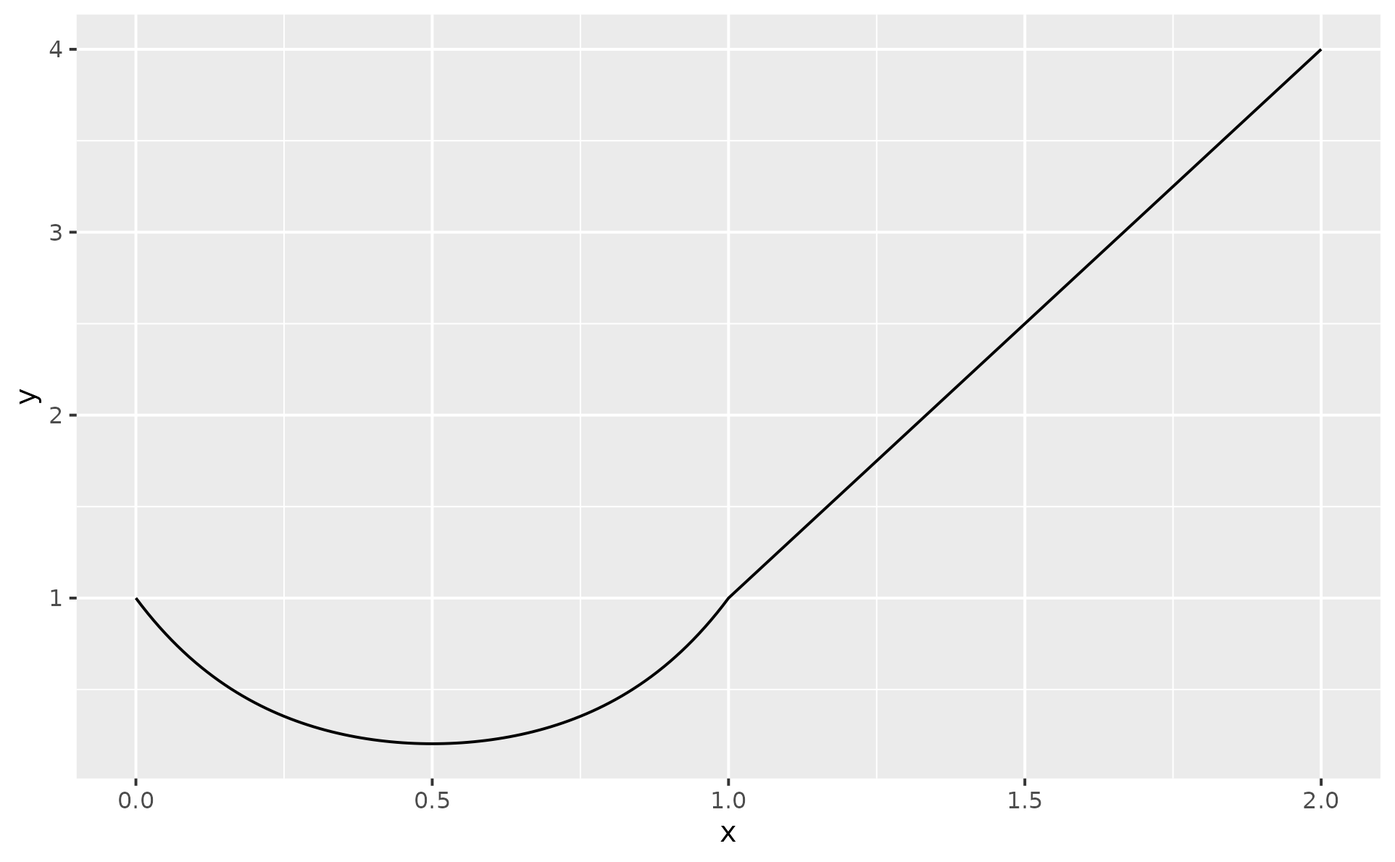
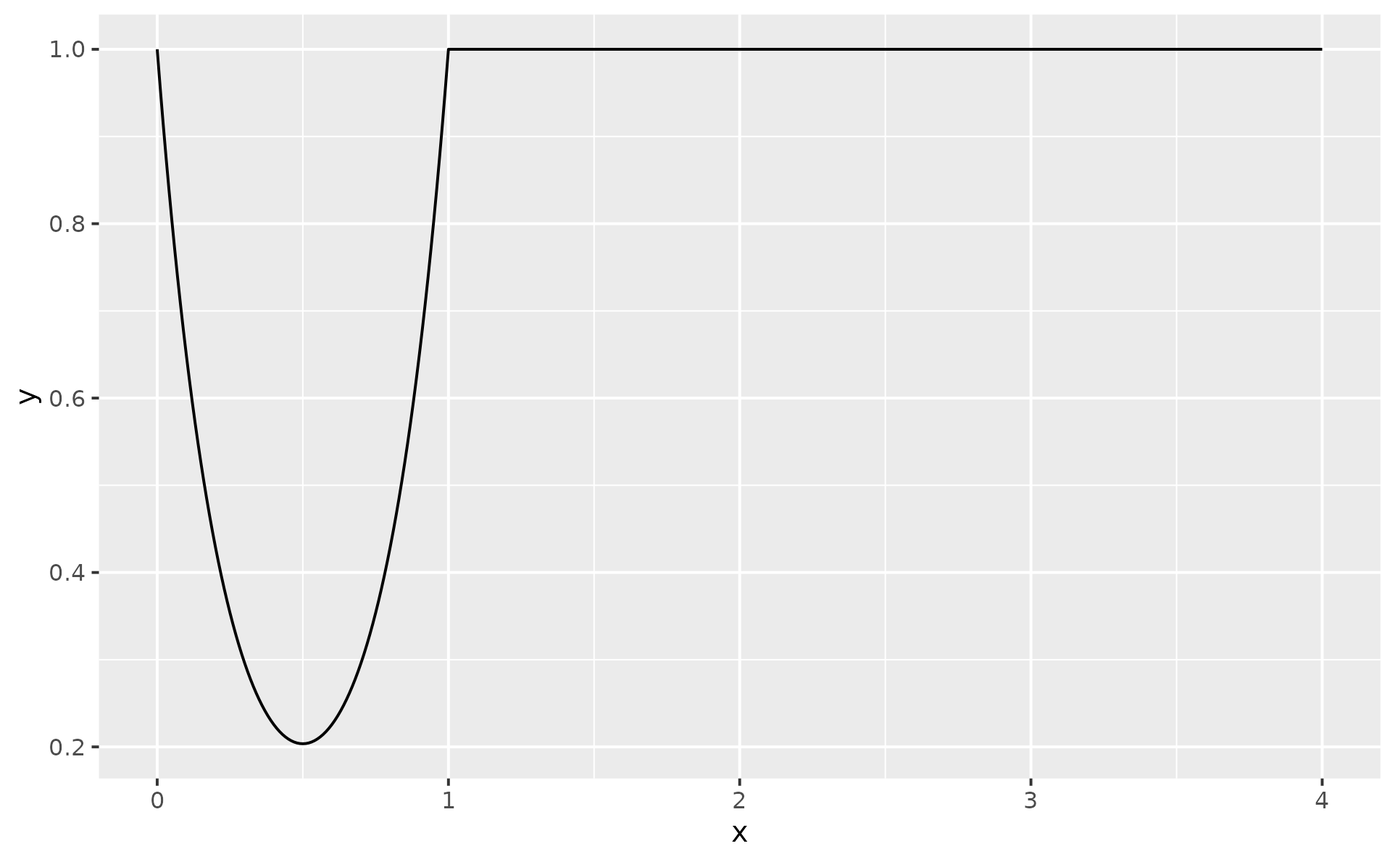
Deploying to gh-pages from @ flrd/ggpointless@ace3b11af0b070875aacb1e18dab3bf1f043c24d 🚀

diff --git a/dev/articles/ggpointless.html b/dev/articles/ggpointless.html
@@ -382,47 +382,35 @@ weight when supported only at its ends (see <a href="https://en.wikipedia.org/wi
 information).</p>
 <div class="sourceCode" id="cb16"><pre class="downlit sourceCode r">
 <code class="sourceCode R"><span><span class="fu"><a href="https://ggplot2.tidyverse.org/reference/ggplot.html" class="external-link">ggplot</a></span><span class="op">(</span><span class="fu"><a href="https://rdrr.io/r/base/data.frame.html" class="external-link">data.frame</a></span><span class="op">(</span>x <span class="op">=</span> <span class="fu"><a href="https://rdrr.io/r/base/c.html" class="external-link">c</a></span><span class="op">(</span><span class="fl">0</span>, <span class="fl">1</span><span class="op">)</span>, y <span class="op">=</span> <span class="fu"><a href="https://rdrr.io/r/base/c.html" class="external-link">c</a></span><span class="op">(</span><span class="fl">1</span>, <span class="fl">1</span><span class="op">)</span><span class="op">)</span>, <span class="fu"><a href="https://ggplot2.tidyverse.org/reference/aes.html" class="external-link">aes</a></span><span class="op">(</span><span class="va">x</span>, <span class="va">y</span><span class="op">)</span><span class="op">)</span> <span class="op">+</span></span>
-<span>  <span class="fu"><a href="../reference/geom_catenary.html">geom_catenary</a></span><span class="op">(</span><span class="op">)</span></span>
+<span>  <span class="fu"><a href="../reference/geom_catenary.html">geom_catenary</a></span><span class="op">(</span><span class="op">)</span> <span class="op">+</span></span>
+<span>  <span class="fu"><a href="https://ggplot2.tidyverse.org/reference/lims.html" class="external-link">ylim</a></span><span class="op">(</span><span class="fl">0</span>, <span class="fl">1</span><span class="op">)</span></span>
 <span><span class="co">#&gt; Set chainLength to 2</span></span></code></pre></div>
 <p><img src="ggpointless_files/figure-html/geom-catenary-intro-1.png" width="962.5"></p>
 <p><code><a href="../reference/geom_catenary.html">geom_catenary()</a></code> calculates a default value for the
-lnegth of the chain that is set to 2 times the Euclidean distance of all
-x/y coordinates. You can change this behaviour and the value of
-<code>chainLength</code> will be applied to each ‘chain link’:</p>
+length of the chain that is set to 2 times the Euclidean distance of all
+x/y coordinates. You can change this behaviour when you set
+<code>chainLength</code> argument.</p>
 <div class="sourceCode" id="cb17"><pre class="downlit sourceCode r">
-<code class="sourceCode R"><span><span class="fu"><a href="https://ggplot2.tidyverse.org/reference/ggplot.html" class="external-link">ggplot</a></span><span class="op">(</span><span class="fu"><a href="https://rdrr.io/r/base/data.frame.html" class="external-link">data.frame</a></span><span class="op">(</span>x <span class="op">=</span> <span class="fu"><a href="https://rdrr.io/r/base/c.html" class="external-link">c</a></span><span class="op">(</span><span class="fl">0</span>, <span class="fl">1</span>, <span class="fl">3</span><span class="op">)</span>, y <span class="op">=</span> <span class="fu"><a href="https://rdrr.io/r/base/c.html" class="external-link">c</a></span><span class="op">(</span><span class="fl">1</span>, <span class="fl">1</span>, <span class="fl">1</span><span class="op">)</span><span class="op">)</span>, <span class="fu"><a href="https://ggplot2.tidyverse.org/reference/aes.html" class="external-link">aes</a></span><span class="op">(</span><span class="va">x</span>, <span class="va">y</span><span class="op">)</span><span class="op">)</span> <span class="op">+</span></span>
-<span>  <span class="fu"><a href="../reference/geom_catenary.html">geom_catenary</a></span><span class="op">(</span>chainLength <span class="op">=</span> <span class="fl">2</span><span class="op">)</span></span>
-<span><span class="co">#&gt; Minimum chain length from '(1, 1)' to '(3, 1)' is 2, drawing a straight line.</span></span></code></pre></div>
+<code class="sourceCode R"><span><span class="fu"><a href="https://ggplot2.tidyverse.org/reference/ggplot.html" class="external-link">ggplot</a></span><span class="op">(</span><span class="fu"><a href="https://rdrr.io/r/base/data.frame.html" class="external-link">data.frame</a></span><span class="op">(</span>x <span class="op">=</span> <span class="fu"><a href="https://rdrr.io/r/base/c.html" class="external-link">c</a></span><span class="op">(</span><span class="fl">0</span>, <span class="fl">1</span><span class="op">)</span>, y <span class="op">=</span> <span class="fu"><a href="https://rdrr.io/r/base/c.html" class="external-link">c</a></span><span class="op">(</span><span class="fl">1</span>, <span class="fl">1</span><span class="op">)</span><span class="op">)</span>, <span class="fu"><a href="https://ggplot2.tidyverse.org/reference/aes.html" class="external-link">aes</a></span><span class="op">(</span><span class="va">x</span>, <span class="va">y</span><span class="op">)</span><span class="op">)</span> <span class="op">+</span></span>
+<span>  <span class="fu"><a href="../reference/geom_catenary.html">geom_catenary</a></span><span class="op">(</span>chainLength <span class="op">=</span> <span class="fl">1.5</span><span class="op">)</span>  <span class="op">+</span></span>
+<span>  <span class="fu"><a href="https://ggplot2.tidyverse.org/reference/lims.html" class="external-link">ylim</a></span><span class="op">(</span><span class="fl">0</span>, <span class="fl">1</span><span class="op">)</span></span></code></pre></div>
 <p><img src="ggpointless_files/figure-html/geom-catenary-chainLength-1.png" width="962.5"></p>
-<p>If you pick a value that is too short to connect to points, a
+<p>If you pick a value that is too short to connect two points, a
 straight line is drawn and a message is shown.</p>
 <div class="sourceCode" id="cb18"><pre class="downlit sourceCode r">
-<code class="sourceCode R"><span><span class="fu"><a href="https://ggplot2.tidyverse.org/reference/ggplot.html" class="external-link">ggplot</a></span><span class="op">(</span><span class="fu"><a href="https://rdrr.io/r/base/data.frame.html" class="external-link">data.frame</a></span><span class="op">(</span>x <span class="op">=</span> <span class="fu"><a href="https://rdrr.io/r/base/c.html" class="external-link">c</a></span><span class="op">(</span><span class="fl">0</span>, <span class="fl">1</span>, <span class="fl">2</span><span class="op">)</span>, y <span class="op">=</span> <span class="fu"><a href="https://rdrr.io/r/base/c.html" class="external-link">c</a></span><span class="op">(</span><span class="fl">1</span>, <span class="fl">1</span>, <span class="fl">4</span><span class="op">)</span><span class="op">)</span>, <span class="fu"><a href="https://ggplot2.tidyverse.org/reference/aes.html" class="external-link">aes</a></span><span class="op">(</span><span class="va">x</span>, <span class="va">y</span><span class="op">)</span><span class="op">)</span> <span class="op">+</span></span>
-<span>  <span class="fu"><a href="../reference/geom_catenary.html">geom_catenary</a></span><span class="op">(</span>chainLength <span class="op">=</span> <span class="fl">2</span><span class="op">)</span></span>
-<span><span class="co">#&gt; Minimum chain length from '(1, 1)' to '(2, 4)' is 3.16, drawing a straight line.</span></span></code></pre></div>
+<code class="sourceCode R"><span><span class="fu"><a href="https://ggplot2.tidyverse.org/reference/ggplot.html" class="external-link">ggplot</a></span><span class="op">(</span><span class="fu"><a href="https://rdrr.io/r/base/data.frame.html" class="external-link">data.frame</a></span><span class="op">(</span>x <span class="op">=</span> <span class="fu"><a href="https://rdrr.io/r/base/c.html" class="external-link">c</a></span><span class="op">(</span><span class="fl">0</span>, <span class="fl">1</span>, <span class="fl">4</span><span class="op">)</span>, y <span class="op">=</span> <span class="fu"><a href="https://rdrr.io/r/base/c.html" class="external-link">c</a></span><span class="op">(</span><span class="fl">1</span>, <span class="fl">1</span>, <span class="fl">1</span><span class="op">)</span><span class="op">)</span>, <span class="fu"><a href="https://ggplot2.tidyverse.org/reference/aes.html" class="external-link">aes</a></span><span class="op">(</span><span class="va">x</span>, <span class="va">y</span><span class="op">)</span><span class="op">)</span> <span class="op">+</span></span>
+<span>  <span class="fu"><a href="../reference/geom_catenary.html">geom_catenary</a></span><span class="op">(</span>chainLength <span class="op">=</span> <span class="fl">4</span><span class="op">)</span></span>
+<span><span class="co">#&gt; Minimum chain length from '(1, 1)' to '(4, 1)' is 3, drawing a straight line.</span></span></code></pre></div>
 <p><img src="ggpointless_files/figure-html/geom-catenary-chainLength-minimum-1.png" width="962.5"></p>
-<p>If you want to draw a chain where each piece has a different value
-(or another attribute) for <code>chainLength</code> you can add a list
-to an ggplot object:</p>
+<p>If you want to draw a chain where each piece has a different
+<code>chainLength</code> value, remember you can add a list to a ggplot
+object:</p>
 <div class="sourceCode" id="cb19"><pre class="downlit sourceCode r">
-<code class="sourceCode R"><span><span class="va">lst</span> <span class="op">&lt;-</span> <span class="fu"><a href="https://rdrr.io/r/base/list.html" class="external-link">list</a></span><span class="op">(</span></span>
-<span>  x <span class="op">=</span> <span class="fu"><a href="https://rdrr.io/r/base/c.html" class="external-link">c</a></span><span class="op">(</span><span class="fl">0</span>, <span class="fl">1</span>, <span class="fl">2</span>, <span class="fl">3</span><span class="op">)</span>,</span>
-<span>  y <span class="op">=</span> <span class="fu"><a href="https://rdrr.io/r/base/c.html" class="external-link">c</a></span><span class="op">(</span><span class="fl">0</span>, <span class="fl">1</span>, <span class="fl">2</span>, <span class="fl">3</span><span class="op">)</span>,</span>
-<span>  chainLength <span class="op">=</span> <span class="fl">1</span> <span class="op">+</span> <span class="fl">2</span> <span class="op">*</span> <span class="fl">1</span><span class="op">:</span><span class="fl">4</span>,</span>
-<span>  colour <span class="op">=</span> <span class="va">cols</span></span>
-<span><span class="op">)</span></span>
-<span></span>
-<span><span class="fu"><a href="https://ggplot2.tidyverse.org/reference/ggplot.html" class="external-link">ggplot</a></span><span class="op">(</span><span class="op">)</span> <span class="op">+</span> <span class="fu"><a href="https://rdrr.io/r/base/funprog.html" class="external-link">Map</a></span><span class="op">(</span></span>
-<span>  <span class="kw">function</span><span class="op">(</span><span class="va">x</span>, <span class="va">y</span>, <span class="va">chainLength</span>, <span class="va">colour</span><span class="op">)</span> <span class="op">{</span></span>
-<span>    <span class="fu"><a href="../reference/geom_catenary.html">geom_catenary</a></span><span class="op">(</span><span class="fu"><a href="https://ggplot2.tidyverse.org/reference/aes.html" class="external-link">aes</a></span><span class="op">(</span><span class="va">x</span>, <span class="va">y</span><span class="op">)</span>,</span>
-<span>                  <span class="fu"><a href="https://rdrr.io/r/base/data.frame.html" class="external-link">data.frame</a></span><span class="op">(</span>x <span class="op">=</span> <span class="va">x</span> <span class="op">+</span> <span class="fl">0</span><span class="op">:</span><span class="fl">1</span>, y <span class="op">=</span> <span class="va">y</span> <span class="op">+</span> <span class="fl">0</span><span class="op">:</span><span class="fl">1</span><span class="op">)</span>,</span>
-<span>                  chainLength <span class="op">=</span> <span class="va">chainLength</span>,</span>
-<span>                  col <span class="op">=</span> <span class="va">colour</span><span class="op">)</span></span>
-<span>  <span class="op">}</span>,</span>
-<span>  x <span class="op">=</span> <span class="va">lst</span><span class="op">[[</span><span class="st">"x"</span><span class="op">]</span><span class="op">]</span>,</span>
-<span>  y <span class="op">=</span> <span class="va">lst</span><span class="op">[[</span><span class="st">"y"</span><span class="op">]</span><span class="op">]</span>,</span>
-<span>  chainLength <span class="op">=</span> <span class="va">lst</span><span class="op">[[</span><span class="st">"chainLength"</span><span class="op">]</span><span class="op">]</span>,</span>
-<span>  colour <span class="op">=</span> <span class="va">lst</span><span class="op">[[</span><span class="st">"colour"</span><span class="op">]</span><span class="op">]</span></span>
+<code class="sourceCode R"><span><span class="fu"><a href="https://ggplot2.tidyverse.org/reference/ggplot.html" class="external-link">ggplot</a></span><span class="op">(</span><span class="fu"><a href="https://rdrr.io/r/base/data.frame.html" class="external-link">data.frame</a></span><span class="op">(</span>x <span class="op">=</span> <span class="fu"><a href="https://rdrr.io/r/base/c.html" class="external-link">c</a></span><span class="op">(</span><span class="fl">0</span>, <span class="fl">1</span><span class="op">)</span>, y <span class="op">=</span> <span class="fl">1</span><span class="op">)</span>,</span>
+<span>       <span class="fu"><a href="https://ggplot2.tidyverse.org/reference/aes.html" class="external-link">aes</a></span><span class="op">(</span><span class="va">x</span>, <span class="va">y</span><span class="op">)</span><span class="op">)</span> <span class="op">+</span> </span>
+<span>  <span class="fu"><a href="https://rdrr.io/r/base/lapply.html" class="external-link">lapply</a></span><span class="op">(</span><span class="fl">2</span><span class="op">:</span><span class="fl">10</span>, <span class="kw">function</span><span class="op">(</span><span class="va">chainLength</span><span class="op">)</span> <span class="op">{</span></span>
+<span>    <span class="fu"><a href="../reference/geom_catenary.html">geom_catenary</a></span><span class="op">(</span>chainLength <span class="op">=</span> <span class="va">chainLength</span><span class="op">)</span></span>
+<span>  <span class="op">}</span></span>
 <span><span class="op">)</span></span></code></pre></div>
 <p><img src="ggpointless_files/figure-html/geom-catenary-chainLength-individual-1.png" width="962.5"></p>
 </div>

diff --git a/dev/reference/geom_catenary.html b/dev/reference/geom_catenary.html
@@ -1,7 +1,7 @@
 <!DOCTYPE html>
 <!-- Generated by pkgdown: do not edit by hand --><html lang="en"><head><meta http-equiv="Content-Type" content="text/html; charset=UTF-8"><meta charset="utf-8"><meta http-equiv="X-UA-Compatible" content="IE=edge"><meta name="viewport" content="width=device-width, initial-scale=1, shrink-to-fit=no"><meta name="description" content="geom_catenary() draws a catenary curve which has a U-like shape,
-superficially similar in appearance to a parabola, which it is not."><title>Draw a catenary curve between fixed points — geom_catenary • ggpointless</title><!-- favicons --><link rel="icon" type="image/png" sizes="16x16" href="../favicon-16x16.png"><link rel="icon" type="image/png" sizes="32x32" href="../favicon-32x32.png"><link rel="apple-touch-icon" type="image/png" sizes="180x180" href="../apple-touch-icon.png"><link rel="apple-touch-icon" type="image/png" sizes="120x120" href="../apple-touch-icon-120x120.png"><link rel="apple-touch-icon" type="image/png" sizes="76x76" href="../apple-touch-icon-76x76.png"><link rel="apple-touch-icon" type="image/png" sizes="60x60" href="../apple-touch-icon-60x60.png"><script src="../deps/jquery-3.6.0/jquery-3.6.0.min.js"></script><meta name="viewport" content="width=device-width, initial-scale=1, shrink-to-fit=no"><link href="../deps/bootstrap-5.3.1/bootstrap.min.css" rel="stylesheet"><script src="../deps/bootstrap-5.3.1/bootstrap.bundle.min.js"></script><link href="../deps/Fira_Code-0.4.8/font.css" rel="stylesheet"><!-- Font Awesome icons --><link rel="stylesheet" href="https://cdnjs.cloudflare.com/ajax/libs/font-awesome/5.12.1/css/all.min.css" integrity="sha256-mmgLkCYLUQbXn0B1SRqzHar6dCnv9oZFPEC1g1cwlkk=" crossorigin="anonymous"><link rel="stylesheet" href="https://cdnjs.cloudflare.com/ajax/libs/font-awesome/5.12.1/css/v4-shims.min.css" integrity="sha256-wZjR52fzng1pJHwx4aV2AO3yyTOXrcDW7jBpJtTwVxw=" crossorigin="anonymous"><!-- bootstrap-toc --><script src="https://cdn.jsdelivr.net/gh/afeld/bootstrap-toc@v1.0.1/dist/bootstrap-toc.min.js" integrity="sha256-4veVQbu7//Lk5TSmc7YV48MxtMy98e26cf5MrgZYnwo=" crossorigin="anonymous"></script><!-- headroom.js --><script src="https://cdnjs.cloudflare.com/ajax/libs/headroom/0.11.0/headroom.min.js" integrity="sha256-AsUX4SJE1+yuDu5+mAVzJbuYNPHj/WroHuZ8Ir/CkE0=" crossorigin="anonymous"></script><script src="https://cdnjs.cloudflare.com/ajax/libs/headroom/0.11.0/jQuery.headroom.min.js" integrity="sha256-ZX/yNShbjqsohH1k95liqY9Gd8uOiE1S4vZc+9KQ1K4=" crossorigin="anonymous"></script><!-- clipboard.js --><script src="https://cdnjs.cloudflare.com/ajax/libs/clipboard.js/2.0.6/clipboard.min.js" integrity="sha256-inc5kl9MA1hkeYUt+EC3BhlIgyp/2jDIyBLS6k3UxPI=" crossorigin="anonymous"></script><!-- search --><script src="https://cdnjs.cloudflare.com/ajax/libs/fuse.js/6.4.6/fuse.js" integrity="sha512-zv6Ywkjyktsohkbp9bb45V6tEMoWhzFzXis+LrMehmJZZSys19Yxf1dopHx7WzIKxr5tK2dVcYmaCk2uqdjF4A==" crossorigin="anonymous"></script><script src="https://cdnjs.cloudflare.com/ajax/libs/autocomplete.js/0.38.0/autocomplete.jquery.min.js" integrity="sha512-GU9ayf+66Xx2TmpxqJpliWbT5PiGYxpaG8rfnBEk1LL8l1KGkRShhngwdXK1UgqhAzWpZHSiYPc09/NwDQIGyg==" crossorigin="anonymous"></script><script src="https://cdnjs.cloudflare.com/ajax/libs/mark.js/8.11.1/mark.min.js" integrity="sha512-5CYOlHXGh6QpOFA/TeTylKLWfB3ftPsde7AnmhuitiTX4K5SqCLBeKro6sPS8ilsz1Q4NRx3v8Ko2IBiszzdww==" crossorigin="anonymous"></script><!-- pkgdown --><script src="../pkgdown.js"></script><meta property="og:title" content="Draw a catenary curve between fixed points — geom_catenary"><meta property="og:description" content="geom_catenary() draws a catenary curve which has a U-like shape,
-superficially similar in appearance to a parabola, which it is not."><meta property="og:image" content="https://flrd.github.io/ggpointless/logo.png"><meta name="robots" content="noindex"><!-- mathjax --><script src="https://cdnjs.cloudflare.com/ajax/libs/mathjax/2.7.5/MathJax.js" integrity="sha256-nvJJv9wWKEm88qvoQl9ekL2J+k/RWIsaSScxxlsrv8k=" crossorigin="anonymous"></script><script src="https://cdnjs.cloudflare.com/ajax/libs/mathjax/2.7.5/config/TeX-AMS-MML_HTMLorMML.js" integrity="sha256-84DKXVJXs0/F8OTMzX4UR909+jtl4G7SPypPavF+GfA=" crossorigin="anonymous"></script><!--[if lt IE 9]>
+similar in appearance to a parabola, which it is not."><title>Draw a catenary curve — geom_catenary • ggpointless</title><!-- favicons --><link rel="icon" type="image/png" sizes="16x16" href="../favicon-16x16.png"><link rel="icon" type="image/png" sizes="32x32" href="../favicon-32x32.png"><link rel="apple-touch-icon" type="image/png" sizes="180x180" href="../apple-touch-icon.png"><link rel="apple-touch-icon" type="image/png" sizes="120x120" href="../apple-touch-icon-120x120.png"><link rel="apple-touch-icon" type="image/png" sizes="76x76" href="../apple-touch-icon-76x76.png"><link rel="apple-touch-icon" type="image/png" sizes="60x60" href="../apple-touch-icon-60x60.png"><script src="../deps/jquery-3.6.0/jquery-3.6.0.min.js"></script><meta name="viewport" content="width=device-width, initial-scale=1, shrink-to-fit=no"><link href="../deps/bootstrap-5.3.1/bootstrap.min.css" rel="stylesheet"><script src="../deps/bootstrap-5.3.1/bootstrap.bundle.min.js"></script><link href="../deps/Fira_Code-0.4.8/font.css" rel="stylesheet"><!-- Font Awesome icons --><link rel="stylesheet" href="https://cdnjs.cloudflare.com/ajax/libs/font-awesome/5.12.1/css/all.min.css" integrity="sha256-mmgLkCYLUQbXn0B1SRqzHar6dCnv9oZFPEC1g1cwlkk=" crossorigin="anonymous"><link rel="stylesheet" href="https://cdnjs.cloudflare.com/ajax/libs/font-awesome/5.12.1/css/v4-shims.min.css" integrity="sha256-wZjR52fzng1pJHwx4aV2AO3yyTOXrcDW7jBpJtTwVxw=" crossorigin="anonymous"><!-- bootstrap-toc --><script src="https://cdn.jsdelivr.net/gh/afeld/bootstrap-toc@v1.0.1/dist/bootstrap-toc.min.js" integrity="sha256-4veVQbu7//Lk5TSmc7YV48MxtMy98e26cf5MrgZYnwo=" crossorigin="anonymous"></script><!-- headroom.js --><script src="https://cdnjs.cloudflare.com/ajax/libs/headroom/0.11.0/headroom.min.js" integrity="sha256-AsUX4SJE1+yuDu5+mAVzJbuYNPHj/WroHuZ8Ir/CkE0=" crossorigin="anonymous"></script><script src="https://cdnjs.cloudflare.com/ajax/libs/headroom/0.11.0/jQuery.headroom.min.js" integrity="sha256-ZX/yNShbjqsohH1k95liqY9Gd8uOiE1S4vZc+9KQ1K4=" crossorigin="anonymous"></script><!-- clipboard.js --><script src="https://cdnjs.cloudflare.com/ajax/libs/clipboard.js/2.0.6/clipboard.min.js" integrity="sha256-inc5kl9MA1hkeYUt+EC3BhlIgyp/2jDIyBLS6k3UxPI=" crossorigin="anonymous"></script><!-- search --><script src="https://cdnjs.cloudflare.com/ajax/libs/fuse.js/6.4.6/fuse.js" integrity="sha512-zv6Ywkjyktsohkbp9bb45V6tEMoWhzFzXis+LrMehmJZZSys19Yxf1dopHx7WzIKxr5tK2dVcYmaCk2uqdjF4A==" crossorigin="anonymous"></script><script src="https://cdnjs.cloudflare.com/ajax/libs/autocomplete.js/0.38.0/autocomplete.jquery.min.js" integrity="sha512-GU9ayf+66Xx2TmpxqJpliWbT5PiGYxpaG8rfnBEk1LL8l1KGkRShhngwdXK1UgqhAzWpZHSiYPc09/NwDQIGyg==" crossorigin="anonymous"></script><script src="https://cdnjs.cloudflare.com/ajax/libs/mark.js/8.11.1/mark.min.js" integrity="sha512-5CYOlHXGh6QpOFA/TeTylKLWfB3ftPsde7AnmhuitiTX4K5SqCLBeKro6sPS8ilsz1Q4NRx3v8Ko2IBiszzdww==" crossorigin="anonymous"></script><!-- pkgdown --><script src="../pkgdown.js"></script><meta property="og:title" content="Draw a catenary curve — geom_catenary"><meta property="og:description" content="geom_catenary() draws a catenary curve which has a U-like shape,
+similar in appearance to a parabola, which it is not."><meta property="og:image" content="https://flrd.github.io/ggpointless/logo.png"><meta name="robots" content="noindex"><!-- mathjax --><script src="https://cdnjs.cloudflare.com/ajax/libs/mathjax/2.7.5/MathJax.js" integrity="sha256-nvJJv9wWKEm88qvoQl9ekL2J+k/RWIsaSScxxlsrv8k=" crossorigin="anonymous"></script><script src="https://cdnjs.cloudflare.com/ajax/libs/mathjax/2.7.5/config/TeX-AMS-MML_HTMLorMML.js" integrity="sha256-84DKXVJXs0/F8OTMzX4UR909+jtl4G7SPypPavF+GfA=" crossorigin="anonymous"></script><!--[if lt IE 9]>
 <script src="https://oss.maxcdn.com/html5shiv/3.7.3/html5shiv.min.js"></script>
 <script src="https://oss.maxcdn.com/respond/1.4.2/respond.min.js"></script>
 <![endif]--></head><body>
@@ -51,14 +51,14 @@ superficially similar in appearance to a parabola, which it is not."><meta prope
 </nav><div class="container template-reference-topic">
 <div class="row">
   <main id="main" class="col-md-9"><div class="page-header">
-      <img src="../logo.png" class="logo" alt=""><h1>Draw a catenary curve between fixed points</h1>
-      <small class="dont-index">Source: <a href="https://github.com/flrd/ggpointless/blob/HEAD/R/geom-catenary.R" class="external-link"><code>R/geom-catenary.R</code></a></small>
+      <img src="../logo.png" class="logo" alt=""><h1>Draw a catenary curve</h1>
+      <small class="dont-index">Source: <a href="https://github.com/flrd/ggpointless/blob/HEAD/R/geom-catenary.R" class="external-link"><code>R/geom-catenary.R</code></a>, <a href="https://github.com/flrd/ggpointless/blob/HEAD/R/stat-catenary.R" class="external-link"><code>R/stat-catenary.R</code></a></small>
       <div class="d-none name"><code>geom_catenary.Rd</code></div>
     </div>
 
     <div class="ref-description section level2">
     <p><code>geom_catenary()</code> draws a catenary curve which has a U-like shape,
-superficially similar in appearance to a parabola, which it is not.</p>
+similar in appearance to a parabola, which it is not.</p>
     </div>
 
     <div class="section level2">
@@ -185,13 +185,17 @@ aesthetics are in bold):</p><ul><li><p><strong>x</strong></p></li>
 <span class="r-in"><span><span class="va">p</span> <span class="op">+</span> <span class="fu">geom_catenary</span><span class="op">(</span><span class="op">)</span></span></span>
 <span class="r-msg co"><span class="r-pr">#&gt;</span> Set chainLength to 4.24</span>
 <span class="r-plt img"><img src="geom_catenary-1.png" alt="" width="962" height="595"></span>
-<span class="r-in"><span><span class="va">p</span> <span class="op">+</span> <span class="fu">geom_catenary</span><span class="op">(</span>chainLength <span class="op">=</span> <span class="fl">1.5</span><span class="op">)</span></span></span>
+<span class="r-in"><span></span></span>
+<span class="r-in"><span><span class="co"># use chainLength argument to change default behaviour</span></span></span>
+<span class="r-in"><span><span class="va">p</span> <span class="op">+</span> <span class="fu">geom_catenary</span><span class="op">(</span>chainLength <span class="op">=</span> <span class="fl">5</span><span class="op">)</span> <span class="op">+</span></span></span>
+<span class="r-in"><span>  <span class="fu"><a href="https://ggplot2.tidyverse.org/reference/lims.html" class="external-link">ylim</a></span><span class="op">(</span><span class="fl">0</span>, <span class="fl">1</span><span class="op">)</span></span></span>
 <span class="r-plt img"><img src="geom_catenary-2.png" alt="" width="962" height="595"></span>
 <span class="r-in"><span></span></span>
 <span class="r-in"><span><span class="co"># if you pick a chain length that is too short, a straight line is</span></span></span>
 <span class="r-in"><span><span class="co"># drawn and a message about minimum chain length is shown</span></span></span>
-<span class="r-in"><span><span class="fu"><a href="https://ggplot2.tidyverse.org/reference/ggplot.html" class="external-link">ggplot</a></span><span class="op">(</span><span class="va">dat</span>, <span class="fu"><a href="https://ggplot2.tidyverse.org/reference/aes.html" class="external-link">aes</a></span><span class="op">(</span><span class="va">x</span>, <span class="va">y</span><span class="op">)</span><span class="op">)</span> <span class="op">+</span></span></span>
-<span class="r-in"><span>  <span class="fu">geom_catenary</span><span class="op">(</span>chainLength <span class="op">=</span> <span class="fl">1.1</span><span class="op">)</span></span></span>
+<span class="r-in"><span><span class="va">p</span> <span class="op">+</span> <span class="fu">geom_catenary</span><span class="op">(</span>chainLength <span class="op">=</span> <span class="fl">2</span><span class="op">)</span> <span class="op">+</span></span></span>
+<span class="r-in"><span>  <span class="fu"><a href="https://ggplot2.tidyverse.org/reference/lims.html" class="external-link">ylim</a></span><span class="op">(</span><span class="fl">0</span>, <span class="fl">1</span><span class="op">)</span></span></span>
+<span class="r-msg co"><span class="r-pr">#&gt;</span> Minimum chain length from '(0, 1)' to '(1, 1)' is 1, drawing a straight line.</span>
 <span class="r-msg co"><span class="r-pr">#&gt;</span> Minimum chain length from '(1, 1)' to '(2, 0.5)' is 1.12, drawing a straight line.</span>
 <span class="r-plt img"><img src="geom_catenary-3.png" alt="" width="962" height="595"></span>
 <span class="r-in"><span></span></span>

diff --git a/dev/index.html b/dev/index.html
@@ -206,11 +206,11 @@
 </h3>
 <p>Draws a flexible curve that simulates a chain or rope hanging loosely between two fixed points. By default, a chain length twice the Euclidean distance between each x/y combination is used. See <a href="https://flrd.github.io/ggpointless/articles/ggpointless.html"><code>vignette("ggpointless")</code></a> for details.</p>
 <div class="sourceCode" id="cb7"><pre class="downlit sourceCode r">
-<code class="sourceCode R"><span><span class="fu"><a href="https://ggplot2.tidyverse.org/reference/ggplot.html" class="external-link">ggplot</a></span><span class="op">(</span><span class="fu"><a href="https://rdrr.io/r/base/data.frame.html" class="external-link">data.frame</a></span><span class="op">(</span>x <span class="op">=</span> <span class="fu"><a href="https://rdrr.io/r/base/c.html" class="external-link">c</a></span><span class="op">(</span><span class="fl">0</span>, <span class="fl">2</span>, <span class="fl">8</span><span class="op">)</span>, y <span class="op">=</span> <span class="fu"><a href="https://rdrr.io/r/base/c.html" class="external-link">c</a></span><span class="op">(</span><span class="fl">2</span>, <span class="fl">1</span>, <span class="fl">3</span><span class="op">)</span><span class="op">)</span>,</span>
+<code class="sourceCode R"><span><span class="fu"><a href="https://ggplot2.tidyverse.org/reference/ggplot.html" class="external-link">ggplot</a></span><span class="op">(</span><span class="fu"><a href="https://rdrr.io/r/base/data.frame.html" class="external-link">data.frame</a></span><span class="op">(</span>x <span class="op">=</span> <span class="fl">1</span><span class="op">:</span><span class="fl">5</span>, y <span class="op">=</span> <span class="fu"><a href="https://rdrr.io/r/base/sample.html" class="external-link">sample</a></span><span class="op">(</span><span class="fl">5</span><span class="op">)</span><span class="op">)</span>,</span>
 <span>       <span class="fu"><a href="https://ggplot2.tidyverse.org/reference/aes.html" class="external-link">aes</a></span><span class="op">(</span><span class="va">x</span>, <span class="va">y</span><span class="op">)</span><span class="op">)</span> <span class="op">+</span> </span>
 <span>  <span class="fu"><a href="reference/geom_catenary.html">geom_catenary</a></span><span class="op">(</span><span class="op">)</span> <span class="op">+</span></span>
-<span>  <span class="fu"><a href="https://ggplot2.tidyverse.org/reference/geom_point.html" class="external-link">geom_point</a></span><span class="op">(</span>size <span class="op">=</span> <span class="fl">3</span>, colour <span class="op">=</span> <span class="va">cols</span><span class="op">[</span><span class="fl">1</span><span class="op">]</span><span class="op">)</span></span>
-<span><span class="co">#&gt; Set chainLength to 17.1</span></span></code></pre></div>
+<span>  <span class="fu"><a href="https://ggplot2.tidyverse.org/reference/geom_point.html" class="external-link">geom_point</a></span><span class="op">(</span>size <span class="op">=</span> <span class="fl">3</span>, colour <span class="op">=</span> <span class="st">"#f4ae1b"</span><span class="op">)</span></span>
+<span><span class="co">#&gt; Set chainLength to 18.4</span></span></code></pre></div>
 <p><img src="reference/figures/README-geom-catenary-1.png" width="100%" style="display: block; margin: auto;"></p>
 <p>This curve is called a catenary, from Latin word catēna, which means “chain”. Credit to: <a href="https://github.com/dulnan/catenary-curve" class="external-link">dulnan/catenary-curve</a></p>
 </div>

diff --git a/dev/reference/ggpointless-ggproto.html b/dev/reference/ggpointless-ggproto.html
@@ -54,7 +54,7 @@ ggplot2::Position, or ggplot2::Scale."><meta property="og:image" content="https:
 <div class="row">
   <main id="main" class="col-md-9"><div class="page-header">
       <img src="../logo.png" class="logo" alt=""><h1>Base ggproto classes for ggpointless</h1>
-      <small class="dont-index">Source: <a href="https://github.com/flrd/ggpointless/blob/HEAD/R/aaa.R" class="external-link"><code>R/aaa.R</code></a>, <a href="https://github.com/flrd/ggpointless/blob/HEAD/R/geom-catenary.R" class="external-link"><code>R/geom-catenary.R</code></a>, <a href="https://github.com/flrd/ggpointless/blob/HEAD/R/geom-chaikin.R" class="external-link"><code>R/geom-chaikin.R</code></a>, and 3 more</small>
+      <small class="dont-index">Source: <a href="https://github.com/flrd/ggpointless/blob/HEAD/R/aaa.R" class="external-link"><code>R/aaa.R</code></a>, <a href="https://github.com/flrd/ggpointless/blob/HEAD/R/geom-lexis.R" class="external-link"><code>R/geom-lexis.R</code></a>, <a href="https://github.com/flrd/ggpointless/blob/HEAD/R/stat-catenary.R" class="external-link"><code>R/stat-catenary.R</code></a>, and 3 more</small>
       <div class="d-none name"><code>ggpointless-ggproto.Rd</code></div>
     </div>
 

diff --git a/dev/reference/geom_chaikin.html b/dev/reference/geom_chaikin.html
@@ -52,7 +52,7 @@ corners of a path."><meta property="og:image" content="https://flrd.github.io/gg
 <div class="row">
   <main id="main" class="col-md-9"><div class="page-header">
       <img src="../logo.png" class="logo" alt=""><h1>Apply Chaikin's corner cutting algorithm to smooth a path</h1>
-      <small class="dont-index">Source: <a href="https://github.com/flrd/ggpointless/blob/HEAD/R/geom-chaikin.R" class="external-link"><code>R/geom-chaikin.R</code></a></small>
+      <small class="dont-index">Source: <a href="https://github.com/flrd/ggpointless/blob/HEAD/R/geom-chaikin.R" class="external-link"><code>R/geom-chaikin.R</code></a>, <a href="https://github.com/flrd/ggpointless/blob/HEAD/R/stat_chaikin.R" class="external-link"><code>R/stat_chaikin.R</code></a></small>
       <div class="d-none name"><code>geom_chaikin.Rd</code></div>
     </div>
 

diff --git a/dev/reference/index.html b/dev/reference/index.html
@@ -82,7 +82,7 @@
           
           <code><a href="geom_catenary.html">geom_catenary()</a></code> <code><a href="geom_catenary.html">stat_catenary()</a></code> 
         </dt>
-        <dd>Draw a catenary curve between fixed points</dd>
+        <dd>Draw a catenary curve</dd>
       </dl></div><div class="section level2">
       <h2 id="data">Data<a class="anchor" aria-label="anchor" href="#data"></a></h2>
       
